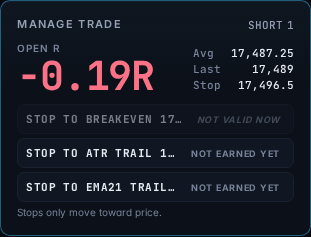
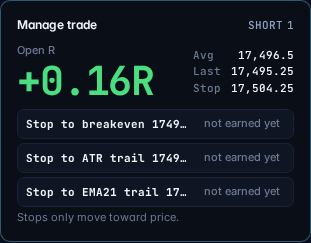
UI: calmer desk. Same layout and behaviour; quieter KPI cards, one verdict per level row, sentence-case labels, flat surfaces

diff --git a/projectx_desk/static/index.html b/projectx_desk/static/index.html
@@ -47,44 +47,43 @@
   <!-- 1b. KPI RIBBON: every stat carries its sample size -->
   <section class="kpis" id="kpis" role="region" aria-label="Session KPIs">
     <div class="kpi" id="kpi-pnl">
-      <div class="k-h"><span class="k-t">Live P&amp;L</span><span class="k-tag">day, net</span></div>
+      <div class="k-h"><span class="k-t" title="Trading day, net">Live P&amp;L</span></div>
       <div class="k-v"><span data-slot="sens" data-tpl="t-kpi-pnl"></span><span data-slot="stream" data-tpl="t-kpi-hidden"></span></div>
-      <div class="k-s">from n <b data-ai="kpi.n" data-fmt="int" class="na">NA</b> closed trades</div>
+      <div class="k-s">n <b data-ai="kpi.n" data-fmt="int" class="na">NA</b> closed trades</div>
     </div>
     <div class="kpi wide" id="kpi-wr">
       <div class="k-h"><span class="k-t">Win rate vs break-even</span></div>
       <div class="k-v"><span class="k-num"><b data-ai="kpi.win_rate" data-fmt="num1" class="na">NA</b><small>%</small></span>
         <span class="k-vs">need <b data-ai="kpi.breakeven_win_rate" data-fmt="num1" class="na">NA</b>%</span>
         <span id="wr-verdict" class="verdict">NA</span></div>
-      <div class="k-s k-pay" id="wr-pay">payoff <b data-ai="kpi.payoff" data-fmt="num2" class="na">NA</b>, <span id="wr-need">needs <b data-ai="kpi.breakeven_win_rate" data-fmt="num1" class="na">NA</b>% wins to break even</span><span id="wr-need-na" hidden>break-even NA</span></div>
-      <div class="wr" id="wr-gauge" aria-hidden="true"><i class="wr-fill" id="wr-fill"></i><i class="wr-be" id="wr-be"></i></div>
-      <div class="k-s"><b data-ai="kpi.wins" data-fmt="int" class="na">NA</b>W / <b data-ai="kpi.losses" data-fmt="int" class="na">NA</b>L, n <b data-ai="kpi.n" data-fmt="int" class="na">NA</b><span class="ss" hidden>SMALL SAMPLE</span></div>
+      <div class="k-s" id="wr-pay">n <b data-ai="kpi.n" data-fmt="int" class="na">NA</b>, payoff <b data-ai="kpi.payoff" data-fmt="num2" class="na">NA</b><span class="ss" hidden>small sample</span><span class="sr"><span id="wr-need">needs <b data-ai="kpi.breakeven_win_rate" data-fmt="num1" class="na">NA</b>% wins to break even</span><span id="wr-need-na" hidden>break-even NA</span>, <b data-ai="kpi.wins" data-fmt="int" class="na">NA</b> wins, <b data-ai="kpi.losses" data-fmt="int" class="na">NA</b> losses</span></div>
+      <div class="wr" id="wr-gauge" aria-hidden="true" hidden><i class="wr-fill" id="wr-fill"></i><i class="wr-be" id="wr-be"></i></div>
     </div>
     <div class="kpi" id="kpi-exp">
-      <div class="k-h"><span class="k-t">Expectancy</span><span class="k-tag">per trade</span></div>
+      <div class="k-h"><span class="k-t" title="Average per trade">Expectancy</span></div>
       <div class="k-v"><span data-slot="sens" data-tpl="t-kpi-exp"></span><span data-slot="stream" data-tpl="t-kpi-hidden"></span></div>
-      <div class="k-s">n <b data-ai="kpi.n" data-fmt="int" class="na">NA</b><span class="ss" hidden>SMALL SAMPLE</span></div>
+      <div class="k-s">n <b data-ai="kpi.n" data-fmt="int" class="na">NA</b><span class="ss" hidden>small sample</span></div>
     </div>
     <div class="kpi" id="kpi-pf">
-      <div class="k-h"><span class="k-t">Profit factor</span><span class="k-tag">gross W / L</span></div>
-      <div class="k-v"><span class="k-num"><b data-ai="kpi.profit_factor" data-fmt="num2" class="na">NA</b></span><span class="k-vs"><span data-slot="sens" data-tpl="t-kpi-gross"></span><span data-slot="stream" data-tpl="t-kpi-gross-hidden"></span></span></div>
-      <div class="k-s">n <b data-ai="kpi.n" data-fmt="int" class="na">NA</b><span class="ss" hidden>SMALL SAMPLE</span></div>
+      <div class="k-h"><span class="k-t" title="Gross wins / gross losses">Profit factor</span></div>
+      <div class="k-v"><span class="k-num"><b data-ai="kpi.profit_factor" data-fmt="num2" class="na">NA</b></span></div>
+      <div class="k-s">n <b data-ai="kpi.n" data-fmt="int" class="na">NA</b><span class="ss" hidden>small sample</span> <span class="k-gross"><span data-slot="sens" data-tpl="t-kpi-gross"></span><span data-slot="stream" data-tpl="t-kpi-gross-hidden"></span></span></div>
     </div>
     <div class="kpi" id="kpi-trades">
-      <div class="k-h"><span class="k-t">Trades</span><span class="k-tag">closed today</span></div>
+      <div class="k-h"><span class="k-t" title="Closed today">Trades</span></div>
       <div class="k-v"><span class="k-num"><b data-ai="kpi.n" data-fmt="int" class="na">NA</b></span><span class="k-vs"><b data-ai="kpi.wins" data-fmt="int" class="na">NA</b>W <b data-ai="kpi.losses" data-fmt="int" class="na">NA</b>L</span></div>
-      <div class="wl" id="wl-bar" aria-hidden="true"><i class="w" id="wl-w"></i><i class="l" id="wl-l"></i></div>
-      <div class="streak" id="streak" role="group" aria-label="Losses in a row" hidden><div class="k-s s-l"><span class="s-t">LOSSES IN A ROW</span><span class="s-n"><b data-ai="behavior.consecutive_losses" data-fmt="int" class="na">NA</b> / <span id="streak-max">3</span></span></div><div class="pips" id="bar-streak" aria-hidden="true"></div></div>
+      <div class="wl" id="wl-bar" aria-hidden="true" hidden><i class="w" id="wl-w"></i><i class="l" id="wl-l"></i></div>
+      <div class="streak" id="streak" role="group" aria-label="Losses in a row" hidden><div class="k-s s-l"><span class="s-t">Losses in a row</span><span class="s-n"><b data-ai="behavior.consecutive_losses" data-fmt="int" class="na">NA</b> / <span id="streak-max">3</span></span></div><div class="pips" id="bar-streak" aria-hidden="true" hidden></div></div>
     </div>
     <div class="kpi" id="kpi-orders">
       <div class="k-h"><span class="k-t">Orders today</span></div>
       <div class="k-v"><span class="k-num"><b data-ai="risk.orders_today" data-fmt="int" class="na">NA</b><small> / <span data-ai="risk.orders_max" data-fmt="int" class="na">NA</span></small></span></div>
-      <div class="pips" id="bar-orders" aria-hidden="true"></div>
+      <div class="pips" id="bar-orders" aria-hidden="true" hidden></div>
     </div>
     <div class="kpi" id="kpi-open">
       <div class="k-h"><span class="k-t">Open contracts</span></div>
       <div class="k-v"><span class="k-num"><b data-ai="risk.open_contracts" data-fmt="int" class="na">NA</b><small> / <span data-ai="risk.max_contracts" data-fmt="int" class="na">NA</span></small></span></div>
-      <div class="pips" id="bar-open" aria-hidden="true"></div>
+      <div class="pips" id="bar-open" aria-hidden="true" hidden></div>
     </div>
   </section>
 
@@ -92,7 +91,7 @@
   <div class="col col-left">
     <!-- 2. SIZE BOX -->
     <section id="size" class="panel hero" role="region" aria-label="Size box">
-      <div class="phead"><h2>Size</h2><span class="dim sub">rounded down, never up</span><span id="size-bind" class="badge push" title="binding source">NA</span></div>
+      <div class="phead"><h2 title="Rounded down, never up">Size</h2><span id="size-bind" class="badge push" title="binding source">NA</span></div>
       <div id="size-answer" class="answer" aria-live="off">
         <div class="big"><span class="num na" data-ai="size.contracts">NA</span><span class="unit na" data-ai="contract.root">NA</span><span class="chips seg sideseg" id="side" role="group" aria-labelledby="lbl-side"><span class="sr" id="lbl-side">Side</span><button id="side-long" data-v="long" aria-pressed="true">LONG</button><button id="side-short" data-v="short" aria-pressed="false">SHORT</button></span></div>
         <div id="size-alert" class="banner bad refused alert" role="alert" hidden>
@@ -100,9 +99,9 @@
           <div id="size-refused" class="aln rf-line" hidden></div>
         </div>
         <div id="size-chips" class="chipline">
+          <span id="chip-lock" class="chip warn" title="after a loss, risk may not exceed what the losing trade risked" hidden><span class="t">Size locked after a loss</span></span>
           <span id="chip-scale" class="chip warn" title="risk scaler: the budget was cut before sizing" hidden><span id="cs-adx" hidden>ADX <b data-ai="size.adx" data-fmt="int" class="na">NA</b> <span id="cs-adx-note"></span></span><span id="cs-atr" hidden>ATR p<b data-ai="size.atr_pctile" data-fmt="int" class="na">NA</b> <span id="cs-atr-note"></span></span><span class="x">x<b data-ai="size.scale.multiplier" data-fmt="num2" class="na">NA</b></span></span>
-          <span id="chip-lock" class="chip warn" title="after a loss, risk may not exceed what the losing trade risked" hidden><span class="t">SIZE LOCKED AFTER LOSS</span></span>
-          <span id="chip-cap" class="chip info" title="risk alone would allow more contracts than the per-order cap" hidden><span class="t">RISK ALLOWS <b data-ai="size.contracts_by_risk" data-fmt="int" class="na">NA</b>, CAP <b data-ai="size.cap" data-fmt="int" class="na">NA</b></span></span>
+          <span id="chip-cap" class="chip info" title="risk alone would allow more contracts than the per-order cap" hidden><span class="t">Risk allows <b data-ai="size.contracts_by_risk" data-fmt="int" class="na">NA</b>, cap <b data-ai="size.cap" data-fmt="int" class="na">NA</b></span></span>
         </div>
         <ul id="size-why" class="why" aria-label="Why this size" hidden></ul>
         <div id="size-plan" class="plan" aria-label="Stop, target and what is left if the stop fills" hidden></div>
@@ -118,7 +117,7 @@
         so <span data-ai="size.contracts" class="na">NA</span> <span data-ai="contract.root" class="na">NA</span>, binds <span data-ai="size.binding" class="na">NA</span>
       </p>
       <div class="ctls">
-        <span class="lbl" id="lbl-risk" title="Risk % of loss room">Risk %</span>
+        <span class="lbl" id="lbl-risk" title="Risk % of loss room">Risk</span>
         <span class="chips" id="risk-pct" role="group" aria-labelledby="lbl-risk">
           <span class="seg"><button id="risk-pct-1" data-v="0.02" aria-pressed="false">2</button><button id="risk-pct-2" data-v="0.03" aria-pressed="false">3</button><button id="risk-pct-3" data-v="0.05" aria-pressed="true">5</button><button id="risk-pct-5" data-v="0.06" aria-pressed="false">6</button></span>
           <span class="step"><button id="risk-dec" aria-label="Decrease risk percent by half a point">-</button><output id="risk-val" class="val">5%</output><button id="risk-inc" aria-label="Increase risk percent by half a point">+</button></span>
@@ -141,12 +140,12 @@
       <div class="phead"><h2>Ticket</h2><span id="tk-state" class="badge">NONE</span>
         <span class="push meta">TTL <b id="tk-ttl" data-ai="ticket.ttl_s">NA</b><span class="msep" aria-hidden="true"></span>#<b id="tk-hash" data-ai="ticket.id8">NA</b></span></div>
       <div id="rail" class="rail" role="group" aria-label="Behavior rail" hidden>
-        <span id="rail-cool" class="rail-main"><span class="rail-t">COOLDOWN AFTER A LOSS</span><b id="rail-clock" class="rail-clock" aria-hidden="true" data-ai="behavior.cooldown_left_s" data-fmt="mmss">NA</b><span class="rail-sub">Walk away.</span></span>
-        <span id="rail-lock" class="rail-main" hidden><span class="rail-t">LOCKED FOR THE SESSION: <b data-ai="behavior.consecutive_losses" data-fmt="int" class="na">NA</b> LOSSES IN A ROW</span><span class="rail-sub">No new opens this session.</span></span>
+        <span id="rail-cool" class="rail-main"><span class="rail-t">Cooldown after a loss</span><b id="rail-clock" class="rail-clock" aria-hidden="true" data-ai="behavior.cooldown_left_s" data-fmt="mmss">NA</b><span class="rail-sub">Walk away.</span></span>
+        <span id="rail-lock" class="rail-main" hidden><span class="rail-t">Locked for the session: <b data-ai="behavior.consecutive_losses" data-fmt="int" class="na">NA</b> losses in a row</span><span class="rail-sub">No new opens this session.</span></span>
       </div>
       <button id="stage-btn" class="primary" disabled>STAGE (preview, places nothing)</button>
       <div id="manual" class="manual" role="group" aria-label="Manual order: your contracts and stop, through the same checks and ticket">
-        <span class="lbl">MANUAL</span>
+        <span class="lbl">Manual</span>
         <span class="step" title="contracts"><button id="mq-dec" aria-label="One contract fewer">-</button><output id="mq-val" class="val">1</output><button id="mq-inc" aria-label="One contract more">+</button></span>
         <span id="mq-cap" class="dim sub"></span>
         <label class="mq-stop">stop <input id="mq-stop" type="number" min="1" step="1" inputmode="numeric" aria-label="Stop distance in ticks">t</label>
@@ -179,7 +178,7 @@
       </div>
 
       <details id="tk-details" class="rbwrap" open>
-        <summary>Readback <span class="dim">(read it back before you hold)</span></summary>
+        <summary title="Read it back before you hold">Readback</summary>
         <dl id="tk-rb" class="rb">
           <dt>Protection</dt><dd id="tk-prot" data-ai="ticket.readback.protection" class="na">NA</dd>
           <dt>Account</dt><dd><span data-ai="ticket.readback.account_kind" class="na">NA</span><span data-slot="sens" data-tpl="t-tk-acct"></span></dd>
@@ -213,11 +212,11 @@
     <div class="chartbar">
       <span class="ind" id="ind" role="group" aria-label="Indicators"></span>
       <button id="rsp-toggle" type="button" class="rsp-tg" aria-pressed="true" title="Draw the level each timeframe has actually been respecting (history, not a forecast)">Respect</button>
-      <span id="ema-badge" class="badge stack" title="EMA 8 / 21 / 34 stack order" hidden><span class="bl"><span class="bl-l">EMA STACK</span><span class="bl-s">EMA</span></span><b data-ai="ind.ema.state" class="na">NA</b></span>
+      <span id="ema-badge" class="badge stack" title="EMA 8 / 21 / 34 stack order" hidden><span class="bl"><span class="bl-l">EMA stack</span><span class="bl-s">EMA</span></span><b data-ai="ind.ema.state" class="na">NA</b></span>
       <label class="sr" for="tz">Timezone</label>
       <select id="tz"><option value="America/Chicago">CT</option><option value="America/New_York">ET</option><option value="UTC">UTC</option></select>
       <span id="msg" class="msg" role="status"></span>
-      <span class="legend" aria-label="Chart line legend"><span class="lg entry">ENTRY</span><span class="lg stop">STOP</span><span class="lg vwap">VWAP</span><span class="lg gex">GEX</span></span>
+      <span class="legend" aria-label="Chart line legend"><span class="lg entry">Entry</span><span class="lg stop">Stop</span><span class="lg vwap">VWAP</span><span class="lg gex">GEX</span></span>
       <span class="dot-wrap" title="tick feed"><span id="dot"></span> ticks</span>
     </div>
     <div class="chartbody"><div id="tools" role="toolbar" aria-label="Drawing tools"></div><div id="chart"></div></div>
@@ -279,7 +278,7 @@
     <section id="ticks" class="panel" role="region" aria-label="Tick charts" data-own="1">
       <div class="phead"><h2>Tick charts</h2><span id="tk-state" class="push dim sub" role="status"></span></div>
       <div id="tk-body" class="mnbody"></div>
-      <p class="lvlegend"><span>Built from the live tape since the desk started recording; no history. Grey bar = missed prints.</span></p>
+      <p class="lvlegend" title="Built from the live tape since the desk started recording. Grey bar = missed prints."><span>Live tape only, no history.</span></p>
     </section>
 
     <!-- 6c2. ANALYST FUTURES CALLOUTS: third-party opinion, not signals. Structured fields only, no message text. -->
@@ -287,7 +286,7 @@
     <section id="feed" class="panel" role="region" aria-label="Analyst futures callouts" data-own="1">
       <div class="phead"><h2>Analyst callouts</h2><span id="fd-state" class="push dim sub" role="status"></span></div>
       <div id="fd-list" class="fdlist"></div>
-      <p class="lvlegend"><span>Opinion, not a signal. Orders still go through the ticket.</span></p>
+      <p class="lvlegend" title="Orders still go through the ticket."><span>Opinion, not a signal.</span></p>
     </section>
 
     <!-- 7. BLOTTER -->

diff --git a/projectx_desk/static/desk.css b/projectx_desk/static/desk.css
@@ -31,7 +31,7 @@
   /* type */
   --mono:"JetBrains Mono",ui-monospace,"SF Mono",Menlo,Consolas,"DejaVu Sans Mono",monospace;
   --sans:"Inter",system-ui,-apple-system,"Segoe UI",Roboto,sans-serif;
-  --fs-2xs:10px; --fs-xs:11px; --fs-sm:12px; --fs-md:13px; --fs-lg:15px;
+  --fs-2xs:11px; --fs-xs:11px; --fs-sm:12px; --fs-md:12px; --fs-lg:15px;   /* three text sizes: label 11, body 12, emphasis 15 (plus the big numbers) */
   --fs-num:clamp(18px,1.35vw,24px); --fs-price:clamp(20px,1.6vw,28px); --fs-hero:clamp(44px,3.6vw,64px);
   /* shape + space */
   --r:10px; --r-sm:7px; --gap:6px; --pad:12px;
@@ -630,3 +630,104 @@ button.danger{border-radius:7px}
 @media (prefers-reduced-motion:reduce){.callout-alert.flash{animation:none}}
 .callout-alert .ca-go{margin-left:auto;padding:7px 14px;border:0;border-radius:8px;background:#111827;color:#fde68a;font:700 14px var(--mono,monospace);cursor:pointer;box-shadow:0 0 0 2px #111827}
 .callout-alert .ca-go:hover,.callout-alert .ca-go:focus-visible{background:#000;color:#fff;outline:2px solid #fff}
+
+/* ---- calm pass (2026-10): same layout, fewer voices. One hairline border per card; accent colour only for the active or blocking state;
+   sentence-case labels instead of letter-spaced capitals; one verdict per row. Nothing here changes what is shown, only how loudly. ---- */
+h2{font-size:var(--fs-sm);letter-spacing:0;text-transform:none;color:var(--text);font-weight:600}
+.k-t,.lbl,.n-t,.tbl th,.pair-h,.rbwrap summary,.rail-t,.link,.legend,.dot-wrap,.tmode,.badge,.pill,.nstate,.verdict,.ss,.tag,.bz,.lv-pos,.mg-tag,.unprot{letter-spacing:0}
+.k-t,.lbl,.n-t,.tbl th,.pair-h,.rbwrap summary,.link,.legend,.dot-wrap{text-transform:none}
+.k-t,.lbl,.n-t,.tbl th,.pair-h,.rbwrap summary,.link{font:500 var(--fs-xs)/1.3 var(--sans);color:var(--text-muted)}
+.manual .lbl{font-family:var(--sans);letter-spacing:0}
+.legend,.dot-wrap{font:500 var(--fs-xs)/1 var(--sans)}
+.rbwrap summary{color:var(--text-2)}
+.tbl th{border-bottom-color:var(--border-sub)}
+.brand{letter-spacing:.08em}
+.mark{background:none;border-color:var(--border-strong)}
+button{letter-spacing:0}
+button.danger{letter-spacing:.04em}
+button.primary{letter-spacing:.02em;background:var(--cyan-bg)}
+.manual button.buy,.manual button.sell{letter-spacing:.04em}
+#place-btn{letter-spacing:.06em;box-shadow:none;background:var(--green-bg)}
+#place-btn:disabled{background:var(--bg-sub)}
+
+/* flat surfaces: no glows, gradients or highlights; the one blocking state (refused, halted, naked stop) keeps its edge */
+.ribbon,.kpi,.panel,.placebar,.chartwrap{box-shadow:none}
+.kpi[data-tone]{box-shadow:none}
+.hero,.manage{background:var(--bg-card)}
+.big .num{text-shadow:none}
+#size.is-refused .big .num{text-shadow:none}
+button[aria-pressed="true"],button.on,.seg button[aria-pressed="true"]{box-shadow:none}
+.sideseg #side-long[aria-pressed="true"],.sideseg #side-short[aria-pressed="true"]{box-shadow:none}
+.math{display:none}   /* repeats the WHY lines below the number; the bound values stay in the DOM */
+.math,.why,.pair,.remain{border-top-style:solid;border-top-color:var(--border-sub)}
+.tree-empty{border-style:solid;border-color:var(--border-sub)}
+.pips i{box-shadow:none}
+
+/* top bar: dots and plain text; a pill only draws a border when something is wrong */
+.pill{border-color:transparent;background:transparent;font-weight:500;padding:4px 6px;color:var(--text-2)}
+.pill.ok,.pill.sim{border-color:transparent;background:transparent;color:var(--text-2)}
+.pill.ok::before{box-shadow:none}
+.badge{border-color:var(--border);font-weight:500}
+.badge.risk,.badge.info,.badge.ok,.badge.atomic{border-color:var(--border);background:none}
+.badge.info,.badge.risk{color:var(--text-2)}
+.badge.stack,.badge.stack[data-state]{border-color:transparent;background:none}
+
+/* KPI ribbon: title, one big value, one quiet sub line */
+.kpi{gap:2px}
+.k-s{font:400 var(--fs-xs)/1.3 var(--sans);color:var(--text-muted)}
+.k-s b{color:var(--text-2)}
+.k-vs{font:400 var(--fs-xs)/1 var(--sans);color:var(--text-muted)}
+.k-vs b{font-weight:500;color:var(--text-2)}
+.ss{border:0;background:none;padding:0;margin-left:6px;font:500 var(--fs-xs)/1 var(--sans);color:var(--amber-ink)}
+.verdict,.verdict.pos,.verdict.neg{border:0;background:none;padding:0;font:500 var(--fs-xs)/1 var(--sans)}
+.verdict{color:var(--text-muted)} .verdict.pos{color:var(--green-ink)} .verdict.neg{color:var(--mag-ink)}
+.kpi[data-tone="pos"] .k-num{color:var(--green-ink)} .kpi[data-tone="neg"] .k-num{color:var(--mag-ink)} .kpi[data-tone="warn"] .k-num{color:var(--amber-ink)}
+#kpi-wr[data-tone] .k-num{color:var(--text)}
+.k-gross{margin-left:4px}
+.streak .s-l{font:400 var(--fs-xs)/1.3 var(--sans);text-transform:none;margin-top:0}
+.streak[data-tone="warn"] .s-n b{color:var(--amber-ink)} .streak[data-tone="neg"] .s-n b{color:var(--mag-ink)}
+body.alarm .kpis .kpi{border-color:var(--border)}
+
+/* size, ticket: one chip at a time (lock outranks scale outranks cap; the rest stay in the WHY lines) */
+.chipline .chip:not([hidden]) ~ .chip{display:none}
+.chip{font:500 var(--fs-xs)/1.2 var(--sans);letter-spacing:0}
+.chip.info{border-color:transparent;background:none;color:var(--text-2);padding-left:0}
+.nstate{font-weight:500}
+.nstate.info,.nstate.ok,.nstate.staged{border-color:transparent;background:none}
+.node.entry,.node.stop{border-left:1px solid var(--border-strong)}
+.node{border-color:var(--border)}
+.tree.live .node.entry,.tree.live.filled .node.entry,.tree.protected .node.stop{box-shadow:none}
+.rr-ticks,.rr-ticks span{font-size:var(--fs-2xs)}
+.rail-t{font:600 var(--fs-sm)/1.3 var(--sans)}
+.rail-sub{font:500 var(--fs-xs)/1.3 var(--sans)}
+
+/* risk: the track outline and the header name what binds; no second BINDS tag */
+.bindtag{display:none}
+.gauge.binds .bar .track{box-shadow:inset 0 0 0 1px var(--cyan-line)}
+
+/* manage trade */
+.mg-btn{font-size:var(--fs-xs);letter-spacing:0}
+.mg-btn .mg-tag{font:500 var(--fs-xs)/1 var(--sans);letter-spacing:0;text-transform:none}
+.mg-btn .mg-tag.rec{border-color:transparent;background:none}
+
+/* level reactions, respected levels, timeframes: hairline rows, ONE muted verdict, text colour carries the state */
+.lvrow,.rsprow{background:transparent;border-color:transparent;border-left-width:2px}
+.lvrow[aria-pressed="true"],.rsprow[aria-pressed="true"]{background:var(--bg-sub);border-color:transparent;color:var(--text)}
+.lvrow[aria-pressed="true"]{border-left-color:var(--cyan)}
+.rsprow[aria-pressed="true"]{border-left-color:var(--tfc,var(--cyan))}
+.lvrow .l2,.lvrow .l2r{display:inline}
+.lvrow .l2{display:flex;gap:2px 6px;font-size:var(--fs-xs)}
+.lvrow .l2r{color:var(--text-muted)}
+.vd,.vd[class]{border:0;background:none;padding:0;margin:0;font:500 var(--fs-xs)/1.3 var(--sans);letter-spacing:0;color:var(--text-muted)}
+.vd-above_random,.vd-respected{color:var(--green-ink)} .vd-below_random{color:var(--mag-ink)} .vd-not_distinguishable{color:var(--text-2)}
+.lv-pos,.lv-pos.above,.lv-pos.below{border:0;padding:0;font:400 var(--fs-xs)/1 var(--sans);color:var(--text-muted);text-transform:lowercase}
+.lvrow .l3{font-size:var(--fs-xs)}
+.rs-pending,.rs-neutral{color:var(--text-2)}
+.rsptf,.mn{border-left:1px solid var(--border)}
+.rsptf.cur,.mn.cur{border-left-color:var(--border-strong)}
+.rsptf .th .tested{font-weight:400}
+.bz,.bz-bullish,.bz-bearish,.bz-na{border-color:transparent;background:none;padding:0;font:600 var(--fs-xs)/1 var(--sans)}
+
+/* chart bar: indicator toggles are plain until checked */
+.ind label{border-color:transparent;background:transparent}
+.ind label:has(input:checked){color:var(--text);border-color:var(--border);background:var(--bg-sub)}

diff --git a/projectx_desk/static/desk.js b/projectx_desk/static/desk.js
@@ -27,7 +27,7 @@ const streaming = () => S.stream && Date.now() >= S.revealUntil;
 
 /* ================= formatting + data-ai fill ================= */
 const getPath = (o, p) => p.split('.').reduce((a, k) => (a == null ? undefined : a[k]), o);
-const VERDICT = {ABOVE_RANDOM: 'BETTER THAN RANDOM', NOT_DISTINGUISHABLE: 'SAME AS RANDOM', BELOW_RANDOM: 'WORSE THAN RANDOM', TOO_FEW_TESTS: 'TOO FEW TESTS'};
+const VERDICT = {ABOVE_RANDOM: 'Better than random', NOT_DISTINGUISHABLE: 'Same as random', BELOW_RANDOM: 'Worse than random', TOO_FEW_TESTS: 'Too few tests'};
 function fmt(v, kind){
   if(kind === 'verdict') return VERDICT[v] || 'NA';
   if(v == null || (typeof v === 'number' && !isFinite(v))) return 'NA';
@@ -456,8 +456,8 @@ function renderKpi(){
   let tone = '';
   if(num(wr) && num(be)){
     const d = wr - be; tone = d >= 0 ? 'pos' : 'neg';
-    v.textContent = (d >= 0 ? 'ABOVE BE +' : 'BELOW BE ') + d.toFixed(1) + 'pt';
-  }else v.textContent = num(wr) ? 'BE NA' : 'NO TRADES';
+    v.textContent = (d >= 0 ? 'Above BE +' : 'Below BE ') + d.toFixed(1) + 'pt';
+  }else v.textContent = num(wr) ? 'BE NA' : 'No trades';
   fillEl.className = 'wr-fill ' + tone; v.className = 'verdict ' + tone;
   $('wr-need').hidden = !num(be); $('wr-need-na').hidden = num(be);
   const tot = (k.wins || 0) + (k.losses || 0);
@@ -469,6 +469,9 @@ function renderKpi(){
   $('kpi-pf').dataset.tone = num(k.profit_factor) ? (k.profit_factor >= 1 ? 'pos' : 'neg') : '';
   setPips('bar-orders', r && r.orders_today, r && r.orders_max);
   setPips('bar-open', r && r.open_contracts, r && r.max_contracts);
+  // the pip meters are not drawn; the value takes the tone instead (amber from 70% of the cap, magenta at it)
+  const pt = id => $(id).classList.contains('full') ? 'neg' : $(id).classList.contains('warn') ? 'warn' : '';
+  $('kpi-orders').dataset.tone = pt('bar-orders'); $('kpi-open').dataset.tone = pt('bar-open'); $('streak').dataset.tone = pt('bar-streak');
 }
 
 function renderBlotter(){
@@ -655,16 +658,17 @@ function renderLevels(){
     if(hasRate){held.append(' (', sp('', 'rate', 'int'), '%)')}
     else held.append(num(lv.n) && lv.n === 0 ? ' (no tests yet)' : ' (NA)');
     l2.append(held);
-    if(lv.small_sample) l2.append(mk('span', 'ss', 'SMALL SAMPLE'));
     // baseline: the same rules on random control lines near price. A level only means something if it beats this.
     const rnd = mk('span', 'l2r');
     rnd.title = 'The same bounce rules applied to random lines near price. If random lines hold as often, this level shows nothing.';
-    rnd.append('random lines ');
+    rnd.append('random ');
     if(num(lv.random_rate)) rnd.append(sp('', 'random_rate', 'int'), '% (n ', sp('', 'random_n', 'int'), ')');
     else rnd.append(num(lv.random_n) && lv.random_n > 0 ? sp('', 'random_rate', 'int') : 'NA');
     const vk = Object.prototype.hasOwnProperty.call(VERDICT, lv.verdict) ? lv.verdict : null;
-    const vd = sp('vd vd-' + (vk ? vk.toLowerCase() : 'na'), 'verdict', 'verdict');
-    rnd.append(vd);
+    // ONE verdict per row: the comparison with random lines, plus 'small sample' in the same muted text (colour carries the state)
+    const vd = mk('span', 'vd vd-' + (vk ? vk.toLowerCase() : 'na'));
+    vd.append(sp('', 'verdict', 'verdict'));
+    if(lv.small_sample) vd.append(' \u00b7 small sample');
     const bits = [];
     if(num(lv.failed) && lv.failed > 0) bits.push([lv.failed, 'failed']);
     if(num(lv.neutral) && lv.neutral > 0) bits.push([lv.neutral, 'flat']);
@@ -672,14 +676,15 @@ function renderLevels(){
     const l3 = mk('span', 'l3');
     const extra = mk('span', 'lv-x');
     bits.forEach(([v, w], i) => {if(i) extra.append(', '); const b = mk('b'); b.dataset.ai = pre + (w === 'failed' ? 'failed' : w === 'flat' ? 'neutral' : 'pending'); b.dataset.fmt = 'int'; extra.append(b, ' ' + w)});
-    l3.append(extra);
+    l3.append(vd, extra);
     const lr = RESULTS.has(lv.last_result) ? lv.last_result : null;
     const last = mk('span', 'lv-last');
     if(lr){last.append('last ', mk('span', 'rs rs-' + lr.toLowerCase(), lr));
       if(num(lv.last_bars_ago)){last.append(', '); const b = mk('b'); b.dataset.ai = pre + 'last_bars_ago'; b.dataset.fmt = 'int'; last.append(b, ' bars ago')}}
     else last.append('last none');
     l3.append(last);
-    row.append(l1, l2, rnd, l3);
+    l2.append(rnd);
+    row.append(l1, l2, l3);
     list.append(row);
   }
   fill($('levels'), view);
@@ -691,7 +696,7 @@ $('lv-list').addEventListener('click', e => {
 });
 
 /* ================= manage trade: tighten-only stop buttons (human clicks, like FLATTEN; no data-ai on controls) ================= */
-const MG_LABEL = {BREAKEVEN: 'STOP TO BREAKEVEN', ATR_TRAIL: 'STOP TO ATR TRAIL', EMA21_TRAIL: 'STOP TO EMA21 TRAIL'};
+const MG_LABEL = {BREAKEVEN: 'Stop to breakeven', ATR_TRAIL: 'Stop to ATR trail', EMA21_TRAIL: 'Stop to EMA21 trail'};
 let mgBusy = false, mgMsgT = 0;
 function mgSay(t, cls){
   const m = $('mg-msg'); m.textContent = t || ''; m.className = 'mg-msg' + (cls ? ' ' + cls : '');
@@ -718,7 +723,7 @@ function renderManage(){
     const lab = MG_LABEL[x.name] + ' ' + Number(x.price).toFixed(dec);
     if(b.firstChild.textContent !== lab) b.firstChild.textContent = lab;
     const tag = b.lastChild;
-    const hint = x.recommended ? 'RECOMMENDED' : x.valid ? 'not earned yet' : 'not valid now';
+    const hint = x.recommended ? 'recommended' : x.valid ? 'not earned yet' : 'not valid now';
     if(tag.textContent !== hint) tag.textContent = hint;
     tag.className = 'mg-tag ' + (x.recommended ? 'rec' : x.valid ? 'wait' : 'off');
     b.classList.toggle('rec', !!x.recommended);
@@ -1241,7 +1246,7 @@ function renderRespect(){
     const lv = ok && t ? rspLevels(tf).slice(0, 3) : [];
     if(ok && t){
       th.append(mk('span', '', rspNum(t.bars) ? t.bars + ' bars' : ''));
-      th.append(mk('span', 'tested', rspNum(t.tested) ? 'tested ' + t.tested + ' candidates' + (rspNum(t.family) && t.family > t.tested ? ' (FDR over ' + t.family + ')' : '') : ''));
+      {const te = mk('span', 'tested', rspNum(t.tested) ? 'tested ' + t.tested : ''); if(rspNum(t.tested)) te.title = 'tested ' + t.tested + ' candidate levels' + (rspNum(t.family) && t.family > t.tested ? ' (FDR over ' + t.family + ')' : ''); th.append(te)}
     }
     box.append(th);
     if(!ok){box.append(mk('p', 'none', R.status === 'loading' ? 'loading...' : 'respect data unavailable'))}
@@ -1259,10 +1264,8 @@ function renderRespect(){
         row.append(mk('span', 'rn', rspName(l.label)),
           mk('span', '', `held ${rspNum(l.held) ? l.held : 'NA'}/${rspNum(l.tests) ? l.tests : 'NA'}`),
           mk('span', '', `hold ${hr} vs placebo ${pr}` + (rspNum(l.p_value) ? ` p=${l.p_value < 0.001 ? '<0.001' : l.p_value.toFixed(3)}` : '')),
-          mk('span', 'vd vd-' + (vk ? vk.toLowerCase() : 'na'), vk === 'RESPECTED' ? 'RESPECTED' : vk ? VERDICT[vk] : 'NA'));
-        if(l.stable === true) row.append(mk('span', 'stb y', 'STABLE'));
-        else if(l.stable === false) row.append(mk('span', 'stb n', 'NOT STABLE'));
-        if(rspNum(l.tests) && l.tests < 30) row.append(mk('span', 'ss', 'SMALL SAMPLE'));
+          mk('span', 'vd vd-' + (vk ? vk.toLowerCase() : 'na'), [vk === 'RESPECTED' ? 'Respected' : vk ? VERDICT[vk] : 'NA',   // ONE verdict: respected / same as random, then stability and sample size in the same muted text
+            l.stable === true ? 'stable' : l.stable === false ? 'not stable' : '', rspNum(l.tests) && l.tests < 30 ? 'small sample' : ''].filter(Boolean).join(' \u00b7 ')));
         box.append(row);
       }
     }
